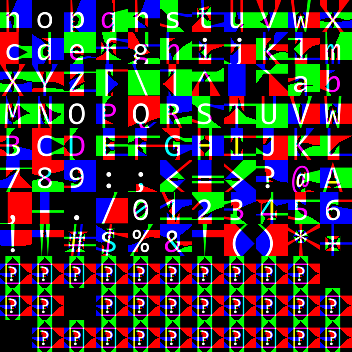
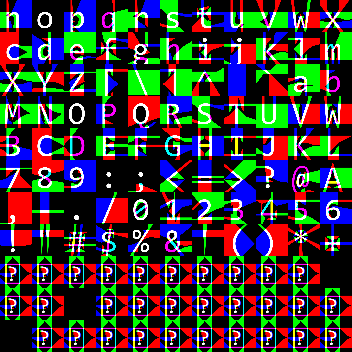
- Went back to using normal SDF-fonts instead

diff --git a/Solution/Engine/CE_Renderer.cpp b/Solution/Engine/CE_Renderer.cpp
@@ -11,22 +11,26 @@
 #include "CE_ShaderPair.h"
 #include "CE_ShaderManager.h"
 
+#define USE_MSDF 0
+
 CE_Renderer::CE_Renderer(CE_GPUContext& anGPUContext, CE_ShaderManager& aShaderManager)
 	: myGPUContext(anGPUContext)
 {
-	//CE_GenericShader* textVX = aShaderManager.GetShader("Text.vx");
-	//CE_GenericShader* textPX = aShaderManager.GetShader("Text.px");
-	//myTextShader = new CE_ShaderPair(textVX, textPX);
-
+#if USE_MSDF == 1
 	CE_GenericShader* textVX = aShaderManager.GetShader("MSDFText.vx");
 	CE_GenericShader* textPX = aShaderManager.GetShader("MSDFText.px");
 	myMSDFTextShader = new CE_ShaderPair(textVX, textPX);
 
-	//myText = new CE_Text(myGPUContext);
-	//myText->Init();
-
 	myMSDFText = new CE_Text(myGPUContext);
 	myMSDFText->InitMSDF();
+#else
+	CE_GenericShader* textVX = aShaderManager.GetShader("Text.vx");
+	CE_GenericShader* textPX = aShaderManager.GetShader("Text.px");
+	myTextShader = new CE_ShaderPair(textVX, textPX);
+
+	myText = new CE_Text(myGPUContext);
+	myText->Init();
+#endif
 
 	myLineObject = new CE_LineRenderObject();
 

diff --git a/Solution/Engine/CE_MSDFGenerator.cpp b/Solution/Engine/CE_MSDFGenerator.cpp
@@ -24,12 +24,13 @@ namespace CE_MSDFGenerator_priv
 		CE_MSDFGlyphData data;
 
 		float avgScale = 0.5f;
-		double range = 1.f;
+		double range = 4.f;
 		double pxRange = range * avgScale;
 		Shape shape;
 		double advance;
 		if (loadGlyph(shape, aFont, aGlyph, &advance))
 		{
+			
 			shape.normalize();
 			edgeColoringSimple(shape, 3.0);
 
@@ -102,6 +103,7 @@ void CE_MSDFGenerator::GenerateFont(const CE_String& aFontPath, float& aMaxHeigh
 
 			CE_MSDFGlyphData& data = outGlyphData.Add();
 			data = CE_MSDFGenerator_priv::LoadGlyph(font, index, glyphSheet, sheetX, sheetY);
+			data.myXAdvance *= 0.75f;
 
 			if (data.myHeight > aMaxHeight)
 				aMaxHeight = static_cast<float>(data.myHeight);

diff --git a/Solution/Engine/CE_Text.cpp b/Solution/Engine/CE_Text.cpp
@@ -96,6 +96,13 @@ void CE_Text::Render()
 	context->DrawIndexed(myIndexCount, 0, 0);
 }
 
+void CE_Text::SetPosition(const CE_Vector2f& aPosition)
+{
+	myPosition = aPosition;
+	if (myMSDFFont)
+		myPosition.y -= myMSDFFont->GetMaxHeight();
+}
+
 void CE_Text::SetText(const CE_String& aString)
 {
 	myGotText = (aString.Lenght() + 1) > 0;

diff --git a/Solution/Engine/CE_Text.h b/Solution/Engine/CE_Text.h
@@ -18,7 +18,7 @@ public:
 	void Render();
 
 	void SetColor(const CE_Vector4f& aColor) { myColor = aColor; }
-	void SetPosition(const CE_Vector2f& aPosition) { myPosition = aPosition; }
+	void SetPosition(const CE_Vector2f& aPosition);
 	void SetText(const CE_String& aString);
 
 private:
